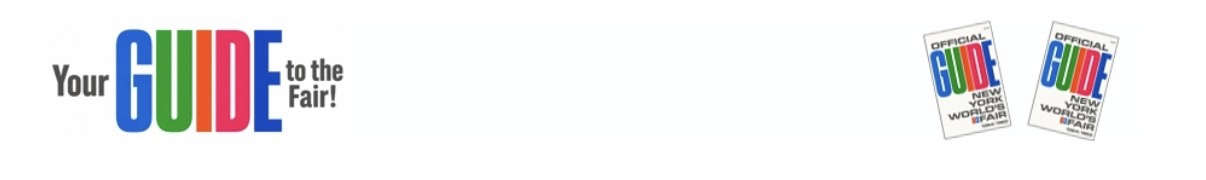
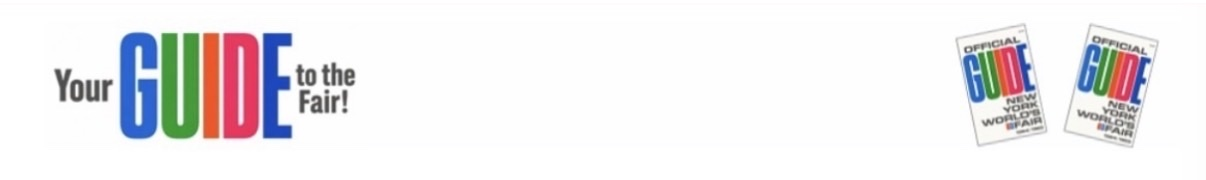
Add Proposed Pavilions Never Built landing page.
Hero from provided phantom-pavilion banner; Guide to the Fair strip
beneath with book-frame border removed from the source image.

Changed region(s): [[0.0307, 0.1389, 0.3068, 0.7778], [0.767, 0.1111, 0.9818, 0.8333]]

diff --git a/src/app/pavilions/proposed-pavilions-never-built/page.tsx b/src/app/pavilions/proposed-pavilions-never-built/page.tsx
@@ -1,21 +1,52 @@
 import type { Metadata } from "next";
-import Link from "next/link";
+import Image from "next/image";
+import styles from "./proposed.module.css";
+import heroBottomBar from "@/styles/heroBottomBar.module.css";
 
 export const metadata: Metadata = {
-  title: "Proposed Pavilions That Were Never Built — nywf64.com",
-  description: "Proposed Pavilions That Were Never Built from Pavilions, Attractions & Exhibits at nywf64.com.",
+  title: "Proposed Pavilions Never Built — nywf64.com",
+  description:
+    "Proposed Pavilions Never Built — discover the Fair’s phantom pavilions at the 1964/1965 New York World’s Fair on nywf64.com.",
 };
 
-export default function Page() {
+/**
+ * Landing: header → hero → guidebook banner → footer
+ * (Disney Shows / Religions / Quiet Spaces pattern).
+ * Phantom-pavilion attraction links will connect here as they are built.
+ */
+export default function ProposedPavilionsNeverBuiltPage() {
   return (
-    <main style={{ maxWidth: 720, margin: "0 auto", padding: "2.5rem 1.25rem 3rem" }}>
-      <p style={{ margin: "0 0 1rem", fontSize: "0.9rem" }}>
-        <Link href="/pavilions">← Pavilions, Attractions & Exhibits</Link>
-      </p>
-      <h1 style={{ margin: 0, color: "#26346e", fontSize: "1.75rem" }}>Proposed Pavilions That Were Never Built</h1>
-      <p style={{ margin: "1rem 0 0", color: "#26346e", lineHeight: 1.5 }}>
-        Placeholder page — full pavilion content will connect here.
-      </p>
+    <main>
+      <section
+        className={styles.hero}
+        aria-label="Proposed Pavilions Never Built"
+      >
+        <div className={`${styles.frame} ${heroBottomBar.photoFrame}`}>
+          <Image
+            src="/images/proposed-pavilions-hero.jpg"
+            alt="Proposed Pavilions Never Built — discover the Fair’s phantom pavilions"
+            width={1935}
+            height={812}
+            priority
+            sizes="100vw"
+            className={styles.art}
+            unoptimized
+          />
+        </div>
+      </section>
+      <section className={styles.banner} aria-label="Guidebook banner">
+        <div className={styles.bannerFrame}>
+          <Image
+            src="/images/guidebook-banner.jpg"
+            alt=""
+            width={1206}
+            height={180}
+            sizes="100vw"
+            className={styles.bannerArt}
+            unoptimized
+          />
+        </div>
+      </section>
     </main>
   );
 }

diff --git a/src/app/pavilions/proposed-pavilions-never-built/proposed.module.css b/src/app/pavilions/proposed-pavilions-never-built/proposed.module.css
@@ -1,0 +1,43 @@
+/* Exact Proposed Pavilions Never Built hero — full image, no crop, no overlays
+ * (Disney Shows / Religions / Quiet Spaces pattern) */
+
+.hero {
+  position: relative;
+  width: 100%;
+  background: #fff;
+  margin-top: 0;
+}
+
+.frame {
+  position: relative;
+  width: 100%;
+  line-height: 0;
+}
+
+.art {
+  display: block;
+  width: 100%;
+  height: auto;
+}
+
+/* Exact guidebook banner beneath hero — full-bleed, no overlays */
+.banner {
+  position: relative;
+  width: 100%;
+  background: #fff;
+  line-height: 0;
+  /* Modest gap under hero (same pattern as Disney Shows / Pavilions mid-banner) */
+  margin-top: 0;
+}
+
+.bannerFrame {
+  position: relative;
+  width: 100%;
+  line-height: 0;
+}
+
+.bannerArt {
+  display: block;
+  width: 100%;
+  height: auto;
+}
